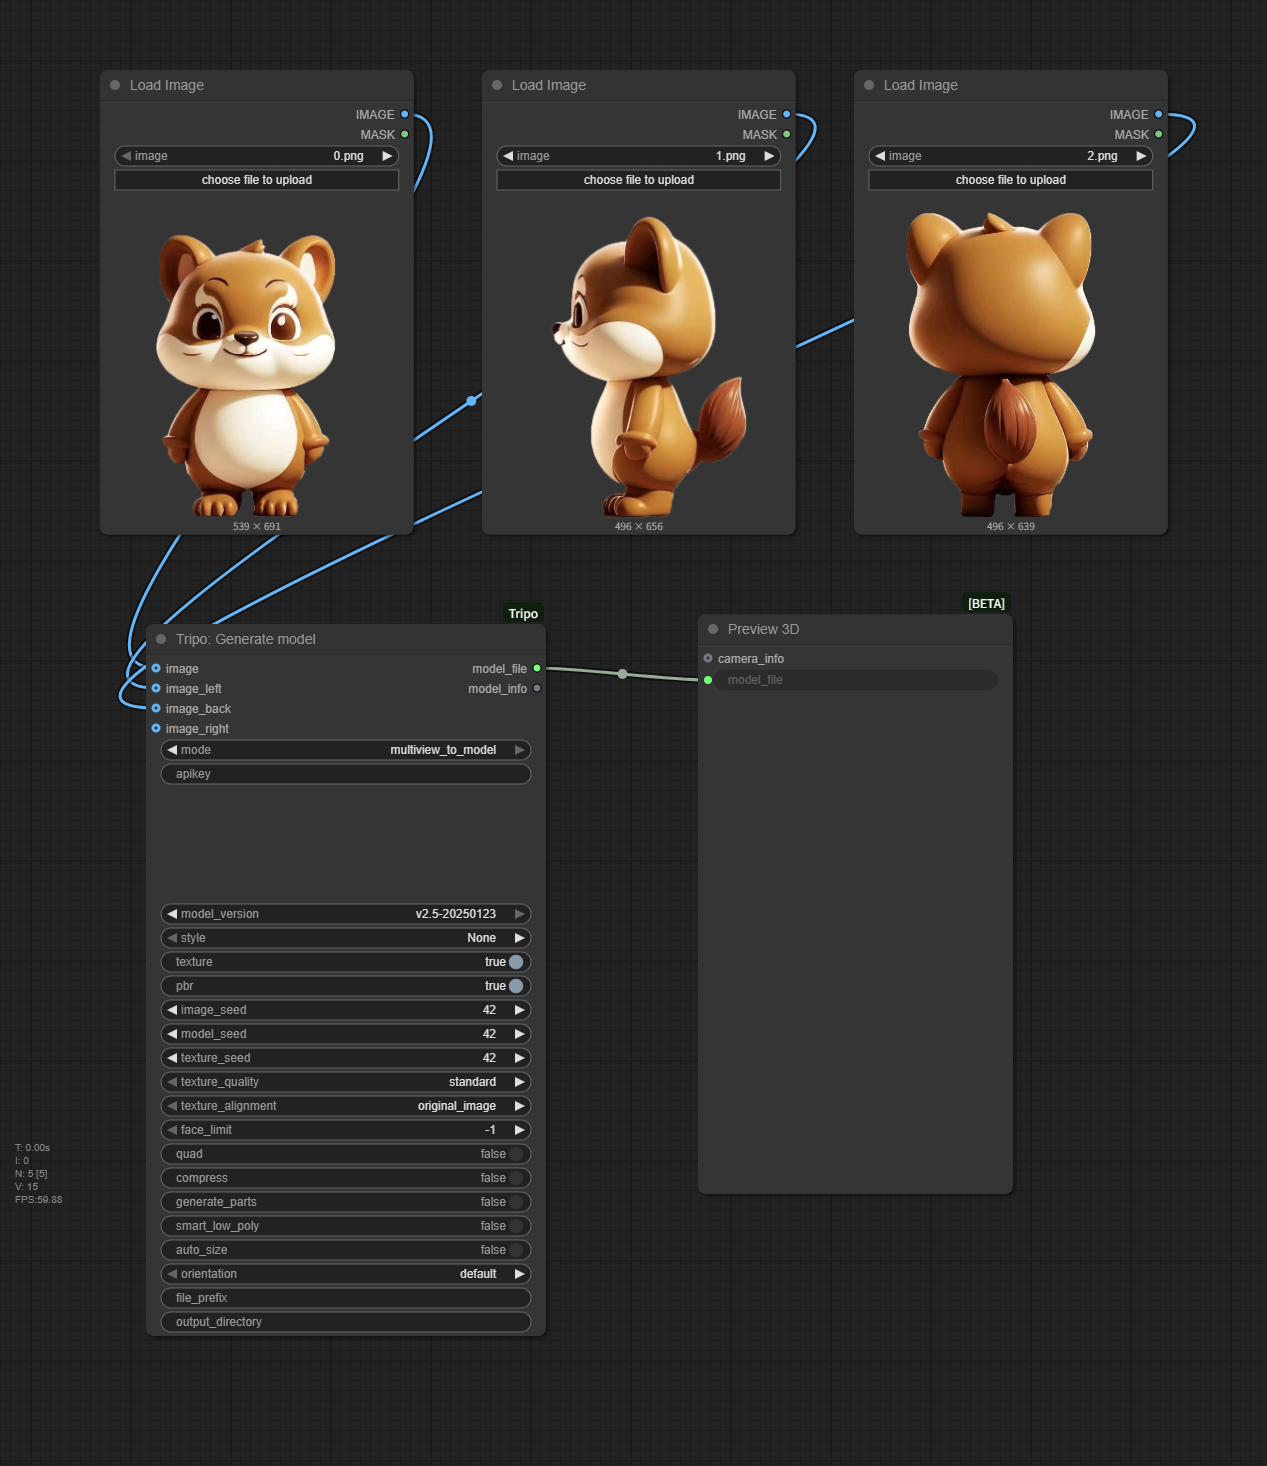
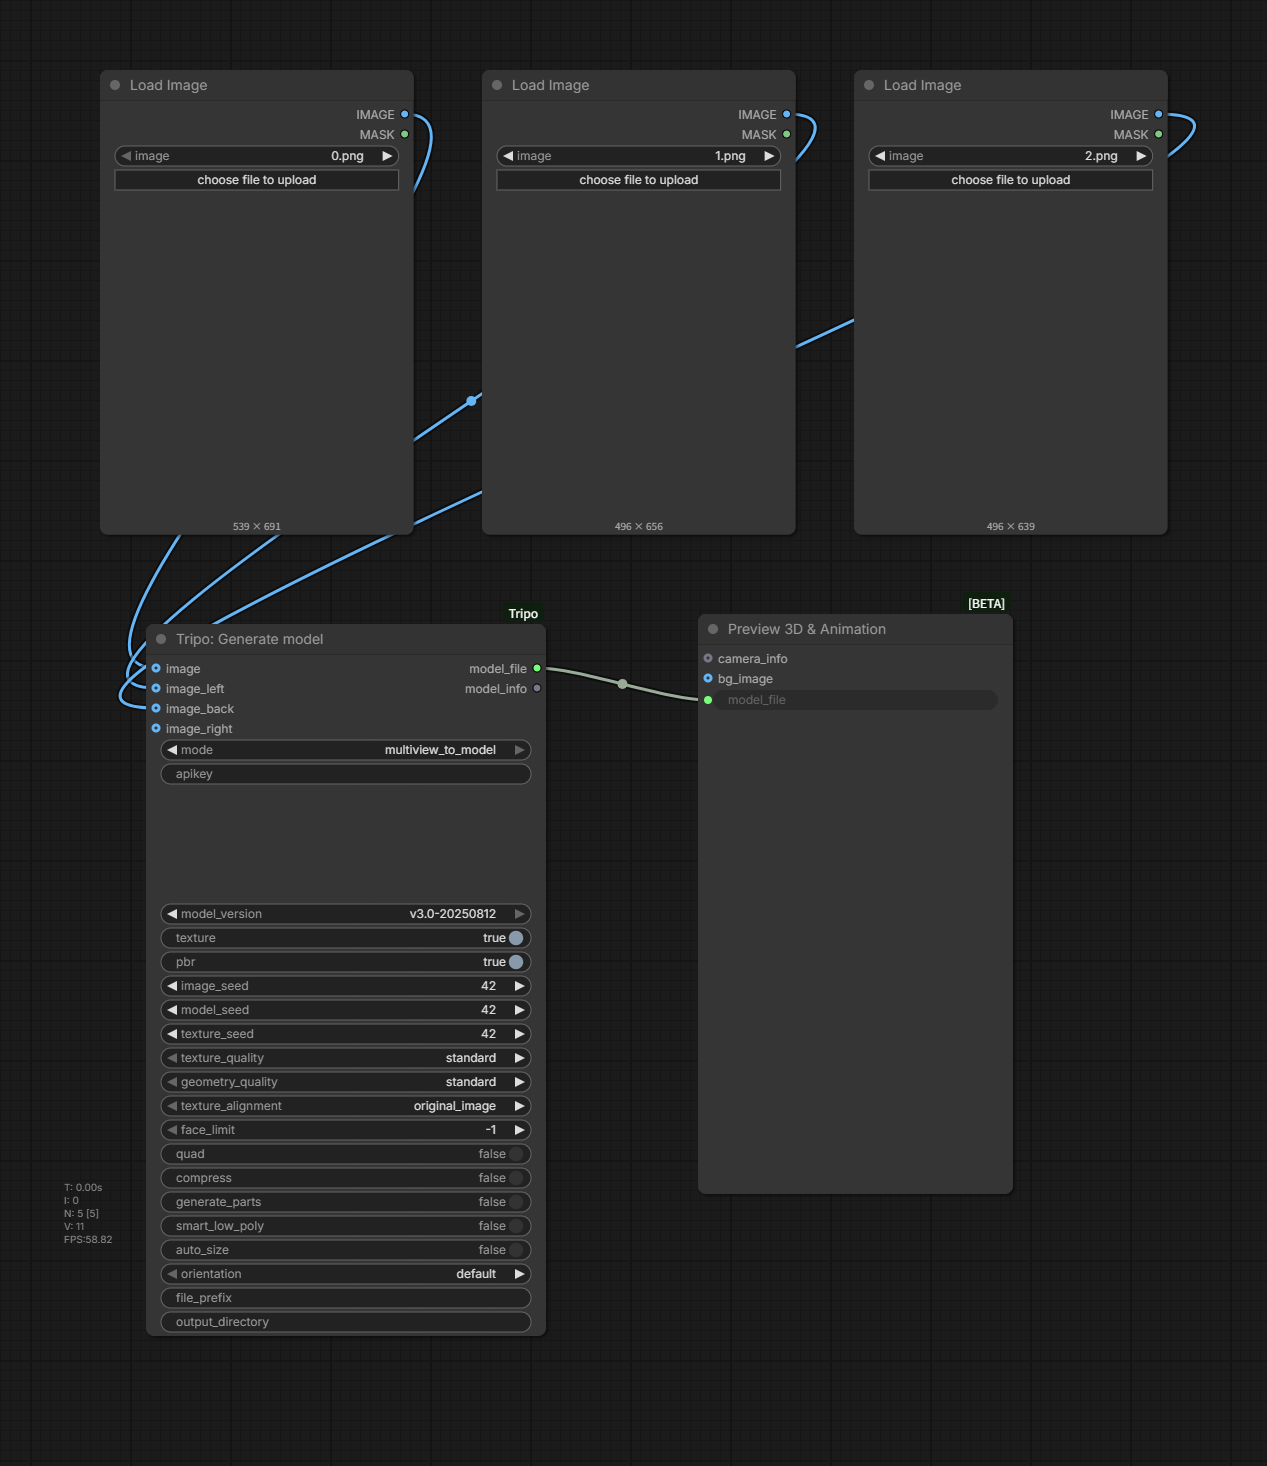
update workflow

diff --git a/__init__.py b/__init__.py
@@ -106,8 +106,6 @@ class TripoAPIDraft:
                 "image_back": ("IMAGE",),
                 "image_right": ("IMAGE",),
                 "model_version": (["v1.4-20240625", "v2.0-20240919", "v2.5-20250123", "v3.0-20250812"], {"default": "v2.5-20250123"}),
-                "style": (["None", "person:person2cartoon", "animal:venom", "object:clay", "object:steampunk",
-                           "object:barbie", "object:christmas", "gold", "ancient_bronze"], {"default": "None"}),
                 "texture": ("BOOLEAN", {"default": True}),
                 "pbr": ("BOOLEAN", {"default": True}),
                 "image_seed": ("INT", {"default": 42}),
@@ -136,13 +134,12 @@ class TripoAPIDraft:
     CATEGORY = "TripoAPI"
 
     async def generate_mesh(self, mode, prompt=None, negative_prompt=None, image=None, image_left=None, image_back=None, image_right=None,
-                      apikey=None, model_version=None, texture=None, pbr=None, style=None,
+                      apikey=None, model_version=None, texture=None, pbr=None,
                       image_seed=None, model_seed=None, texture_seed=None, texture_quality=None, geometry_quality=None, texture_alignment=None,
                       face_limit=None, quad=None, compress=None, generate_parts=None, smart_low_poly=None,
                       auto_size=None, orientation=None, file_prefix=None, output_directory=None):
         client, key = GetTripoAPI(apikey)
         async with client:
-            style_enum = None if style == "None" else ModelStyle(style)
             if mode == "text_to_model":
                 if not prompt:
                     raise RuntimeError("Prompt is required")
@@ -150,7 +147,6 @@ class TripoAPIDraft:
                     prompt=prompt,
                     negative_prompt=negative_prompt,
                     model_version=model_version,
-                    style=style_enum,
                     texture=texture,
                     pbr=pbr,
                     image_seed=image_seed,
@@ -171,7 +167,6 @@ class TripoAPIDraft:
                 task_id = await client.image_to_model(
                     image=image_path,
                     model_version=model_version,
-                    style=style_enum,
                     texture=texture,
                     pbr=pbr,
                     model_seed=model_seed,
